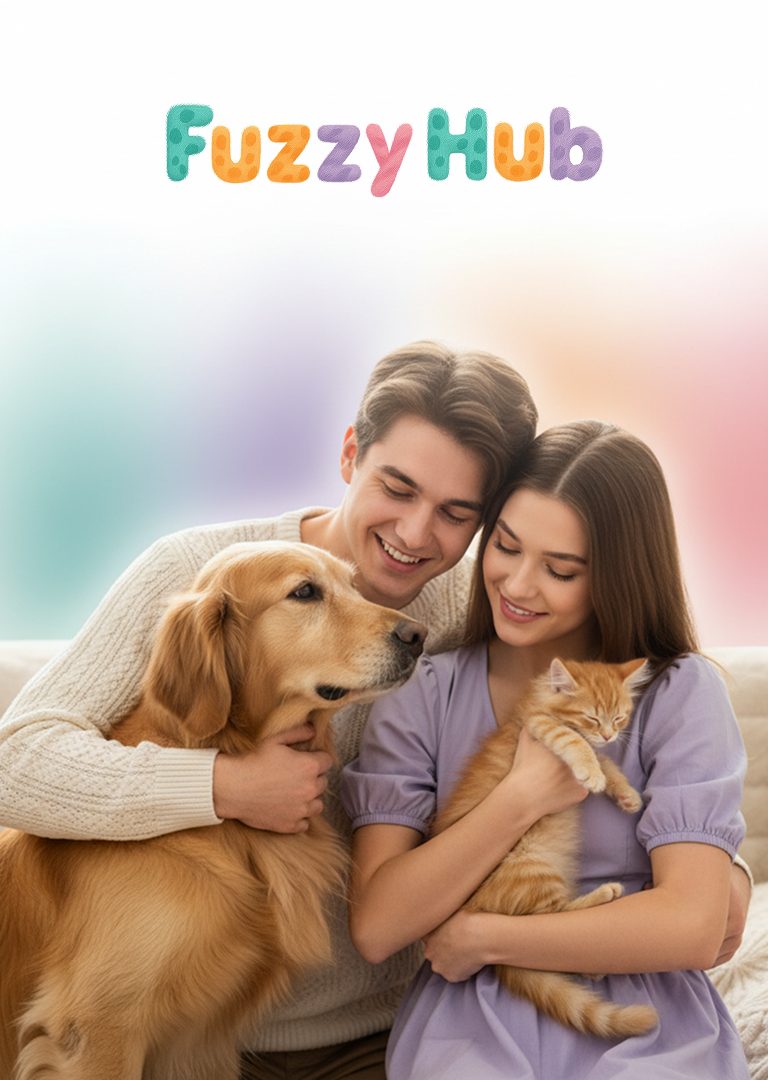
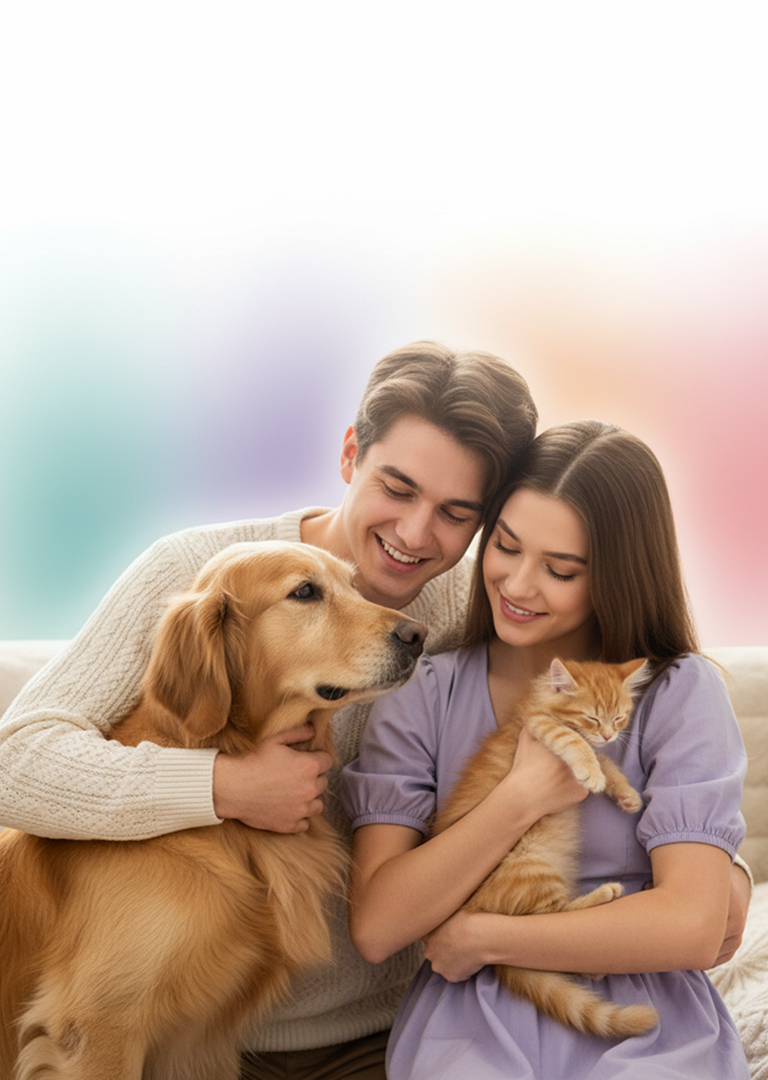
Add customer portal tests, upgrade Playwright to v1.60, and adjust portal styles

Changed region(s): [[0.2188, 0.0917, 0.7812, 0.1833]]

diff --git a/src/components/templates/portal/auth/TemplateAuthMain/TemplateAuthMain.tsx b/src/components/templates/portal/auth/TemplateAuthMain/TemplateAuthMain.tsx
@@ -1,6 +1,12 @@
 import { PropsWithChildren } from "react";
 
-import { ArtDirectionImage, ArtDirectionImageSrc } from "@portal/ui/atoms";
+import Link from "next/link";
+
+import {
+  ArtDirectionImage,
+  ArtDirectionImageSrc,
+  Logo,
+} from "@portal/ui/atoms";
 
 interface TemplateAuthContentProps extends PropsWithChildren {
   backgroundImage: ArtDirectionImageSrc;
@@ -12,6 +18,9 @@ export const TemplateAuthMain = ({
 }: TemplateAuthContentProps) => (
   <main className="max-desktop:flex-col flex min-h-screen w-full bg-white font-sans">
     <div className="desktop:w-2/5 max-desktop:h-50 max-tablet:h-20 relative w-full overflow-hidden">
+      <Link href="/" className="z-20 absolute left-1/2 -translate-x-1/2 top-25 block">
+        <Logo orientation="horizontal" className="w-111 h-25" />
+      </Link>
       <ArtDirectionImage src={backgroundImage} />
     </div>
     <div className="desktop:w-3/5 desktop:items-center flex flex-col flex-1 justify-center">

diff --git a/playwright.config.ts b/playwright.config.ts
@@ -46,30 +46,30 @@ export default defineConfig({
 
   projects: [
     {
-      name: "webkit",
+      name: "chromium",
       use: {
-        ...devices["Desktop Safari"],
+        ...devices["Desktop Chrome"],
         viewport: { width: 1920, height: 1080 },
       },
     },
     {
-      name: "webkit",
+      name: "chromium",
       use: {
-        ...devices["Desktop Safari"],
+        ...devices["Desktop Chrome"],
         viewport: { width: 1280, height: 832 },
       },
     },
     {
-      name: "webkit",
+      name: "chromium",
       use: {
-        ...devices["Desktop Safari"],
+        ...devices["Desktop Chrome"],
         viewport: { width: 768, height: 1024 },
       },
     },
     {
-      name: "webkit",
+      name: "chromium",
       use: {
-        ...devices["Desktop Safari"],
+        ...devices["Desktop Chrome"],
         viewport: { width: 375, height: 701 },
       },
     },

diff --git a/src/components/organisms/portal/auth/LoginForm/LoginForm.tsx b/src/components/organisms/portal/auth/LoginForm/LoginForm.tsx
@@ -97,7 +97,7 @@ export const LoginForm = ({ onLogin, onOAuthLogin }: LoginFormProps) => {
   );
 
   return (
-    <TemplateAuthContent className="large-desktop:max-w-110 max-tablet:py-8 max-tablet:pb-10.5">
+    <TemplateAuthContent className="max-tablet:py-8 max-tablet:pb-10.5">
       <TemplateAuthContentHeader
         title="Welcome back!"
         subtitle="Please enter your details to continue"
@@ -127,7 +127,7 @@ export const LoginForm = ({ onLogin, onOAuthLogin }: LoginFormProps) => {
           )}
         </Form>
       </TemplateAuthContentForm>
-      <TemplateAuthContentFooter className="large-desktop:mx-2.5">
+      <TemplateAuthContentFooter>
         <SubmitButton form="login-form" formState={methods.formState}>
           Log In
         </SubmitButton>

diff --git a/src/components/templates/portal/market/TemplateHomeMain/TemplateHomeMain.tsx b/src/components/templates/portal/market/TemplateHomeMain/TemplateHomeMain.tsx
@@ -3,7 +3,7 @@ import { PropsWithChildren } from "react";
 import { TemplateMain } from "@portal/ui/templates";
 
 export const TemplateHomeMain = async ({ children }: PropsWithChildren) => (
-  <TemplateMain className="pt-0! tablet:-mt-25 large-desktop:gap-20 desktop:gap-15 tablet:gap-10 max-tablet:gap-8 large-desktop:pb-20 desktop:pb-15 tablet:pb-10 max-tablet:pb-8">
+  <TemplateMain className="large-desktop:gap-20 desktop:gap-15 tablet:gap-10 max-tablet:gap-8 only-tablet:pb-10 max-tablet:pb-8">
     {children}
   </TemplateMain>
 );

diff --git a/tests/pages/portal/customer/account-settings.page.spec.ts b/tests/pages/portal/customer/account-settings.page.spec.ts
@@ -1,0 +1,17 @@
+import { expect, test } from "@playwright/test";
+
+const PAGE_URL = "/demo/account/settings";
+
+test.describe("visual regression tests", () => {
+  test.beforeEach(async ({ page }) => {
+    await page.goto(PAGE_URL);
+    await page.waitForLoadState("networkidle");
+  });
+
+  test("Customer Portal: Account Settings", async ({ page, viewport }) => {
+    await expect(page).toHaveScreenshot(
+      `account-settings-${viewport?.width}.png`,
+      { fullPage: true },
+    );
+  });
+});

diff --git a/src/components/templates/portal/auth/TemplateAuthContent/TemplateAuthContent.tsx b/src/components/templates/portal/auth/TemplateAuthContent/TemplateAuthContent.tsx
@@ -15,7 +15,7 @@ export const TemplateAuthContent = ({
   <Box
     className={twMerge(
       "gap-5 w-full",
-      "large-desktop:gap-6 max-desktop:py-15 max-tablet:px-4 tablet:max-w-115 max-tablet:pt-4 max-tablet:pb-10 mx-auto max-desktop:mb-auto",
+      "large-desktop:gap-6 max-desktop:py-15 max-tablet:px-4 tablet:max-w-104 max-tablet:pt-4 max-tablet:pb-10 mx-auto max-desktop:mb-auto",
       className,
     )}
   >

diff --git a/src/app/demo/(with-footer)/(customer-portal)/account/settings/page.tsx b/src/app/demo/(with-footer)/(customer-portal)/account/settings/page.tsx
@@ -14,7 +14,7 @@ import profileMock from "./_mocks/profile.mock";
 const AccountDemoPage = () => (
   <TemplateMain>
     <PageHeader {...pageHeaderMock} />
-    <Container className="flex-row gap-8 pt-8 pb-20">
+    <Container className="flex-row gap-8 pt-8">
       <ProfileSettings className="flex-1" {...profileMock} />
       <AccountSecurity className="flex-1" />
     </Container>

diff --git a/src/components/templates/portal/auth/TemplateAuthContentFooter/TemplateAuthContentFooter.tsx b/src/components/templates/portal/auth/TemplateAuthContentFooter/TemplateAuthContentFooter.tsx
@@ -14,8 +14,7 @@ export const TemplateAuthContentFooter = ({
 }: TemplateAuthContentFooterProps) => (
   <Box
     className={twMerge(
-      "gap-5 items-stretch px-5",
-      "large-desktop:gap-6 large-desktop:mx-5 max-tablet:gap-4 max-tablet:px-0 tablet:mx-7.5",
+      "gap-5 items-stretch large-desktop:gap-6 max-tablet:gap-4",
       className,
     )}
   >

diff --git a/src/app/demo/(with-footer)/(customer-portal)/layout.tsx b/src/app/demo/(with-footer)/(customer-portal)/layout.tsx
@@ -6,9 +6,7 @@ const CustomerPortalLayout = ({
   children,
 }: Readonly<{ children: ReactNode }>) => (
   <>
-    <div className="bg-bg-light relative z-101 h-4" />
-    <div className="fixed top-0 right-0 left-0 z-100 h-21 bg-white" />
-    <Header prefixHref="/demo" className="bg-transparent" />
+    <Header prefixHref="/demo" />
     {children}
   </>
 );

diff --git a/src/components/templates/portal/common/TemplateMain/TemplateMain.tsx b/src/components/templates/portal/common/TemplateMain/TemplateMain.tsx
@@ -13,7 +13,7 @@ export const TemplateMain = ({
   <main
     className={twMerge(
       "relative flex w-full flex-col bg-white font-sans",
-      "large-desktop:pb-20 desktop:pt-8 desktop:pb-15 tablet:pb-7.5 pb-2.5",
+      "tablet:-mt-25 large-desktop:pb-20 only-desktop:pb-15 only-tablet:pb-7.5 max-tablet:pb-2.5",
       className,
     )}
   >

diff --git a/src/components/atoms/portal/data-display/ArtDirectionImage/ArtDirectionImage.tsx b/src/components/atoms/portal/data-display/ArtDirectionImage/ArtDirectionImage.tsx
@@ -49,7 +49,7 @@ export const ArtDirectionImage = ({
       <source media="(max-width: 767px)" srcSet={mobile} />
       <img
         alt=""
-        className={twMerge("w-full h-auto object-cover", className)}
+        className={twMerge("w-full h-full object-cover", className)}
       />
     </picture>
   );

diff --git a/src/components/organisms/portal/market/PageHeader/PageHeader.tsx b/src/components/organisms/portal/market/PageHeader/PageHeader.tsx
@@ -17,7 +17,7 @@ export const PageHeader = ({
 }: PageHeaderProps) => (
   <div
     className={twMerge(
-      "bg-bg-light relative z-200 -mt-21 flex h-47 justify-center",
+      "bg-bg-light relative z-200 flex h-47 justify-center",
       className,
     )}
   >
